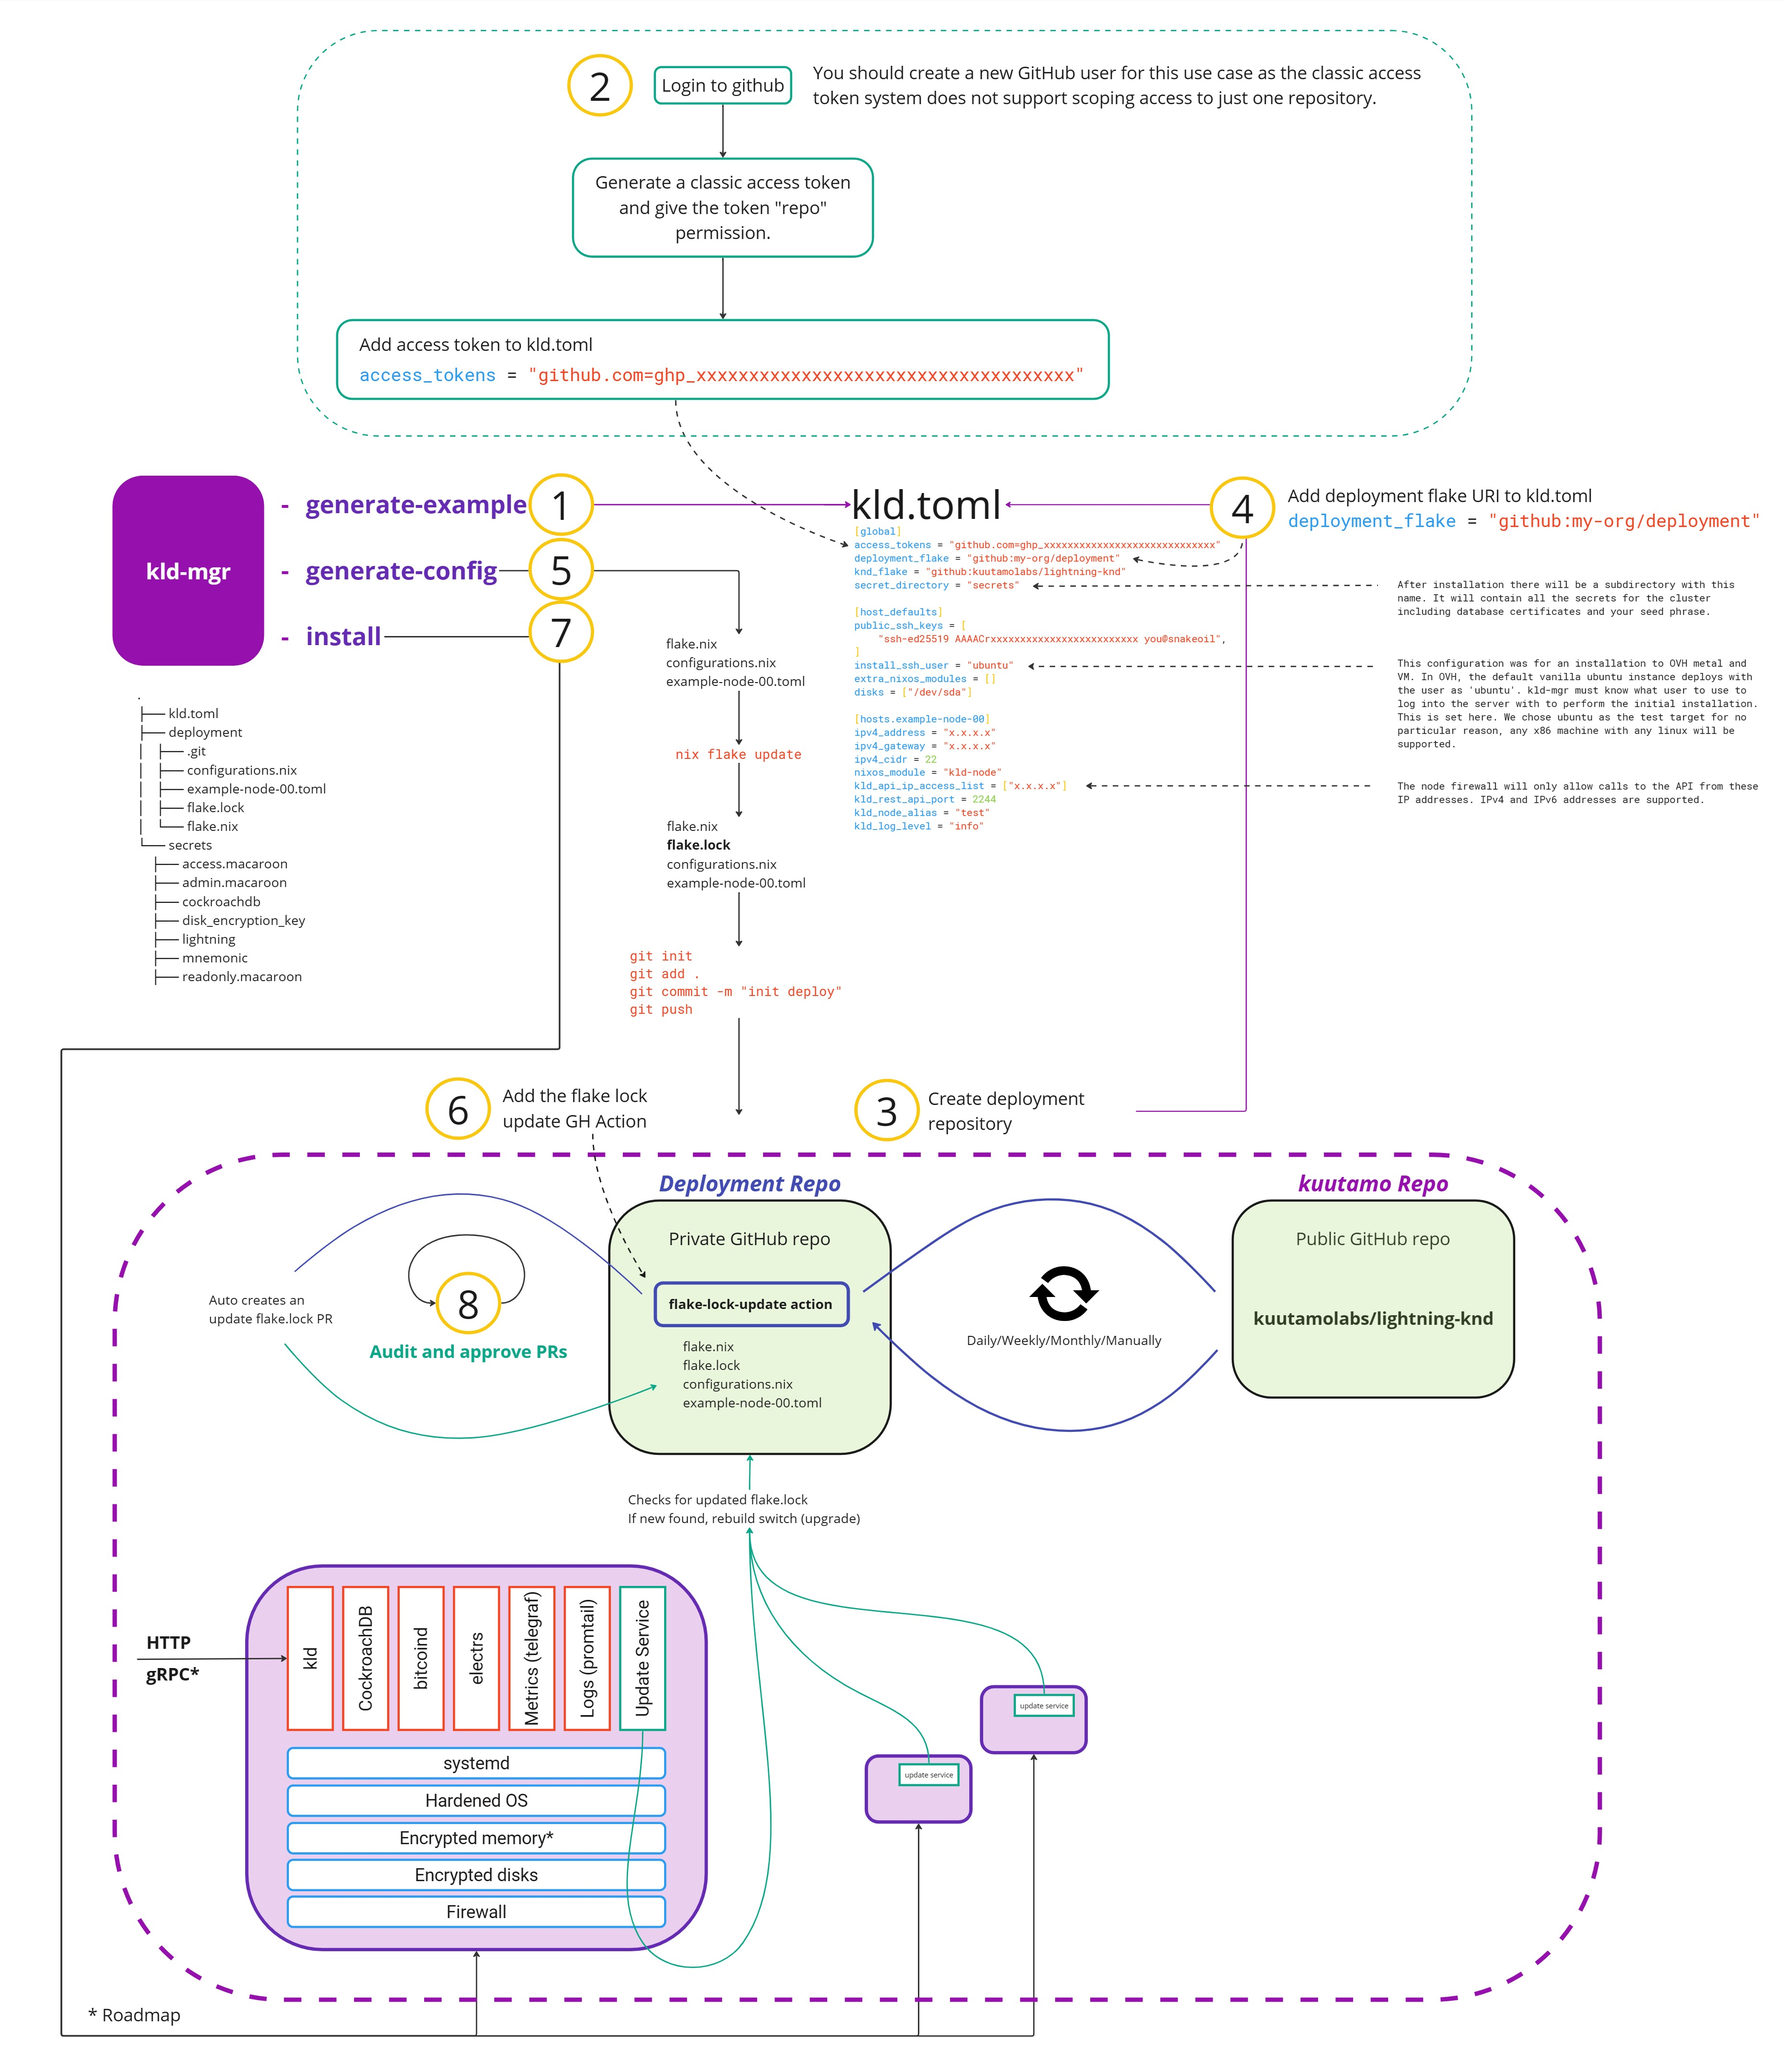
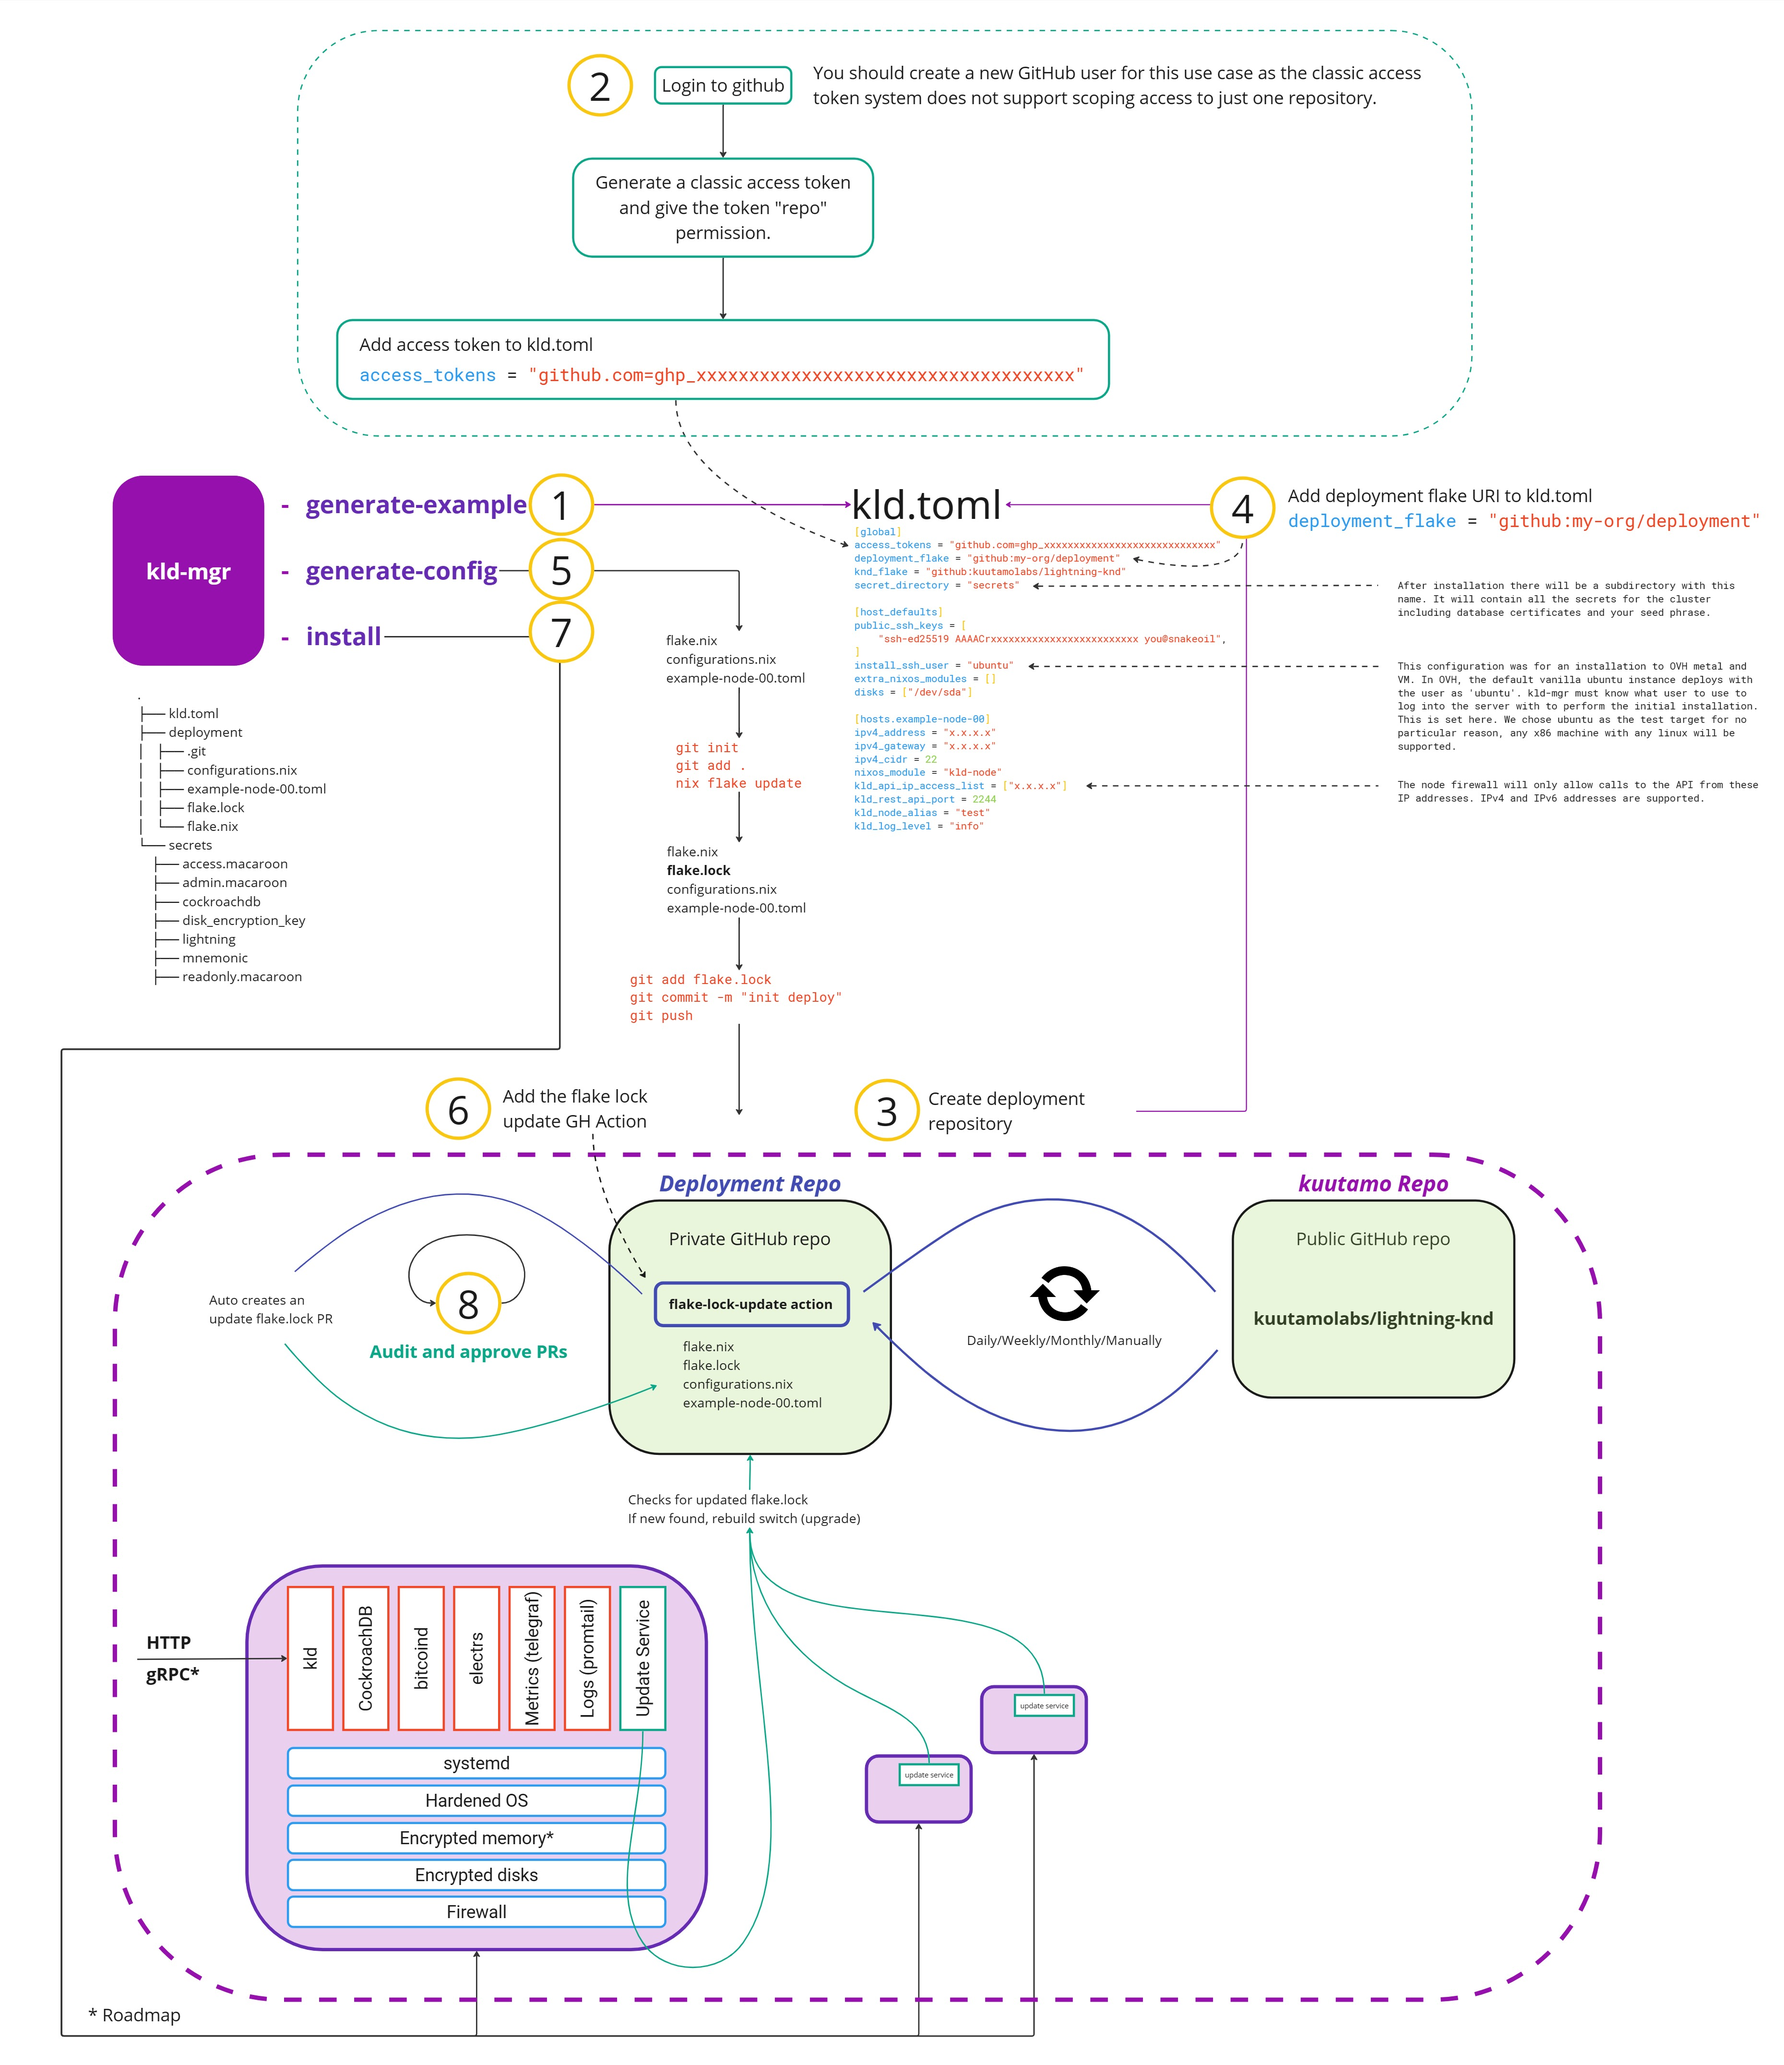
.

diff --git a/README.md b/README.md
@@ -46,10 +46,15 @@ Other cluster bootstrap methods can be used, such as via USB disk or PXE.
 ![install and upgrade GitOps setup](./install-upgrade-gitops.jpg)
 
 Notes:
-- Step 0: Make a new directory
+- Step 0: Make a new directory and cd into it
 - Step 1: `nix run github:kuutamolabs/lightning-knd#kld-mgr generate-example > kld.toml`
 - Step 2: Generate classic token with full repo permission, please refer to the [Github doc](https://docs.github.com/en/authentication/keeping-your-account-and-data-secure/managing-your-personal-access-tokens)
-- Step 5: `nix run github:kuutamolabs/lightning-knd#kld-mgr generate-config ./deployment`
+- Step 5.1: `nix run github:kuutamolabs/lightning-knd#kld-mgr generate-config deployment`
+- Step 5.2: `cd deployment`
+- Step 5.3: `git init && git add . && nix flake update`
+- Step 5.4: `git add flake.lock`
+- Step 5.5: `git commit -m init deploy && git push`
+- Step 5.6: `cd ..`
 - Step 6.1: `mkdir -p ./deployment/.github/workflows`
 - Step 6.2: `curl https://raw.githubusercontent.com/DeterminateSystems/update-flake-lock/main/.github/workflows/update.yml --output ./deployment/.github/workflows/upgrade.yml`
 - Step 6.3: Please refer to [update-flake-lock](https://github.com/DeterminateSystems/update-flake-lock) to configure this Action to your requirements.
